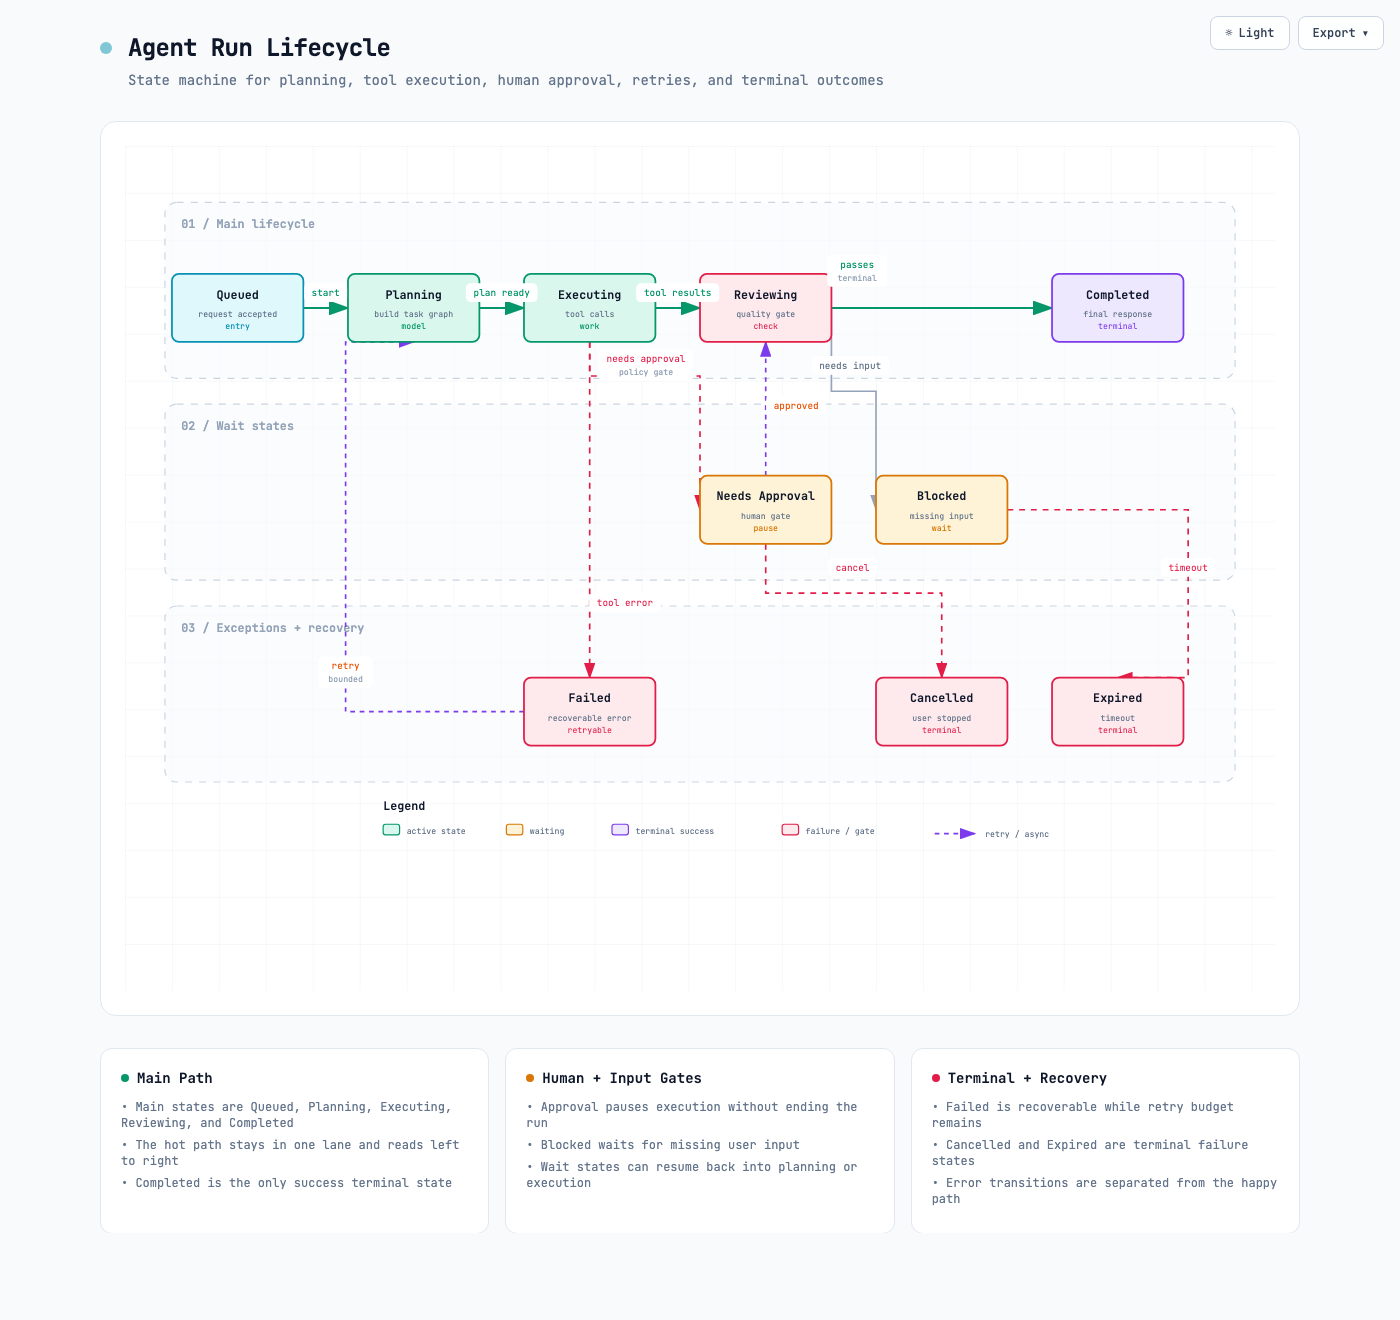
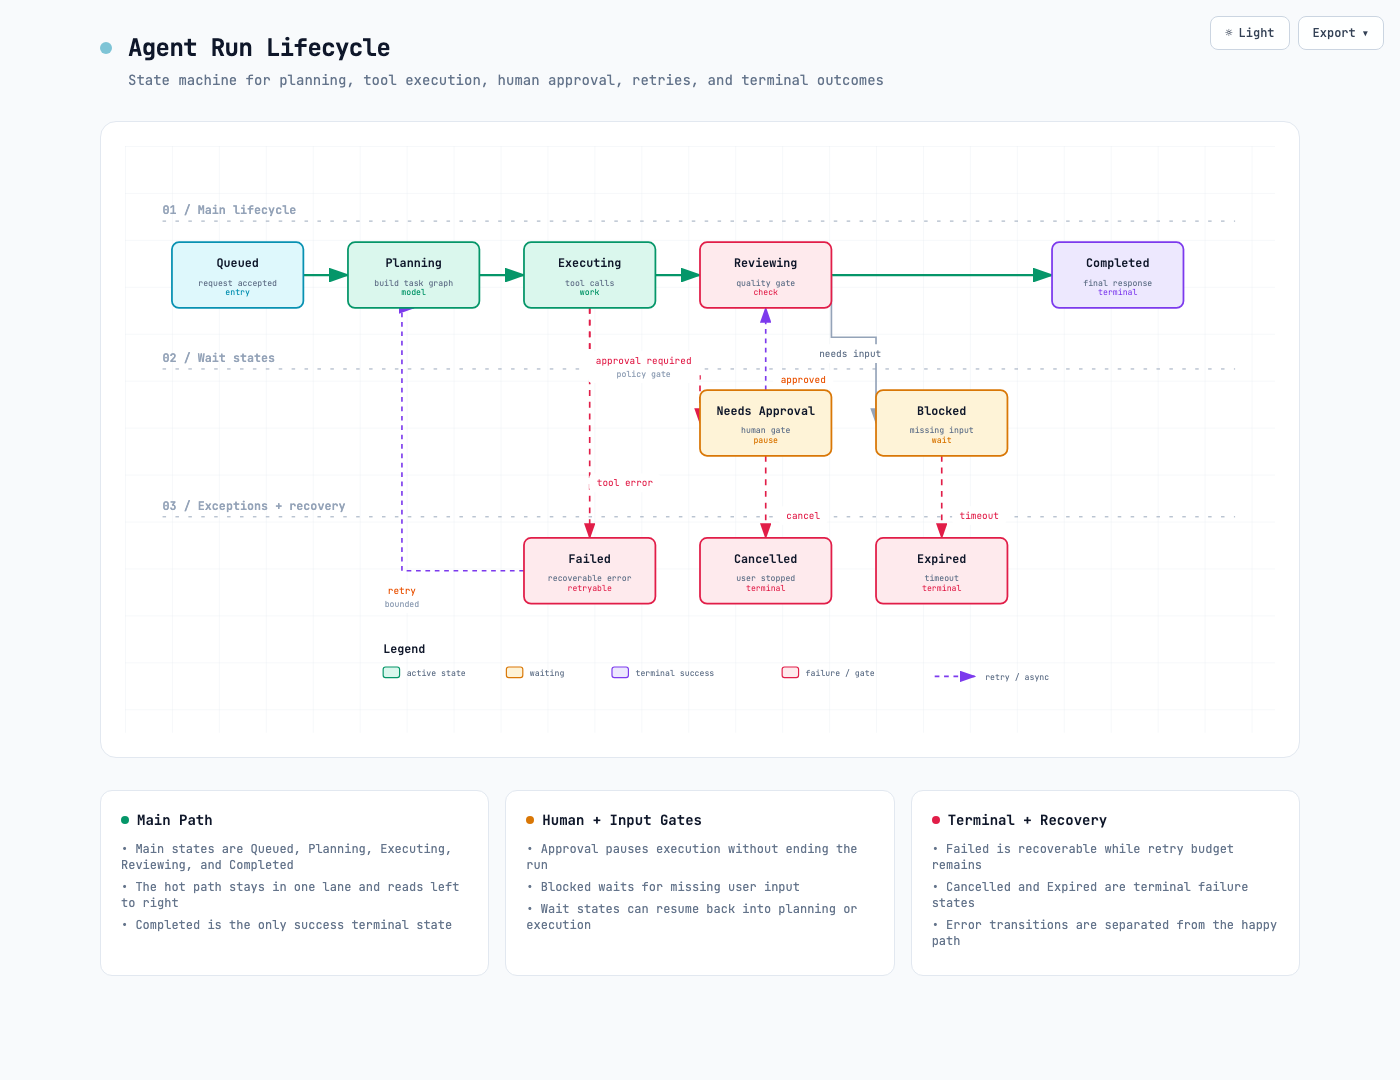
Redesign lifecycle diagram visual model

diff --git a/examples/lifecycle-agent-run.html b/examples/lifecycle-agent-run.html
@@ -448,7 +448,7 @@
 
     <!-- Main Diagram -->
     <div class="diagram-container">
-      <svg viewBox="0 0 980 720">
+      <svg viewBox="0 0 980 500">
         <!-- Definitions -->
         <defs>
           <marker id="arrowhead" markerWidth="10" markerHeight="7" refX="9" refY="3.5" orient="auto">
@@ -472,128 +472,123 @@
         <rect width="100%" height="100%" fill="url(#grid)" />
 
         <!-- Lifecycle lanes -->
-        <rect x="34" y="48" width="912" height="150" rx="10" class="c-lane" stroke-width="1"/>
-        <text x="48" y="70" class="t-dim" font-size="10" font-weight="600">01 / Main lifecycle</text>
+        <path d="M 32 64 L 946 64" class="a-default" stroke-width="0.8" stroke-dasharray="3,8"/>
+        <text x="32" y="58" class="t-dim" font-size="10" font-weight="600">01 / Main lifecycle</text>
 
-        <rect x="34" y="220" width="912" height="150" rx="10" class="c-lane" stroke-width="1"/>
-        <text x="48" y="242" class="t-dim" font-size="10" font-weight="600">02 / Wait states</text>
+        <path d="M 32 190 L 946 190" class="a-default" stroke-width="0.8" stroke-dasharray="3,8"/>
+        <text x="32" y="184" class="t-dim" font-size="10" font-weight="600">02 / Wait states</text>
 
-        <rect x="34" y="392" width="912" height="150" rx="10" class="c-lane" stroke-width="1"/>
-        <text x="48" y="414" class="t-dim" font-size="10" font-weight="600">03 / Exceptions + recovery</text>
+        <path d="M 32 316 L 946 316" class="a-default" stroke-width="0.8" stroke-dasharray="3,8"/>
+        <text x="32" y="310" class="t-dim" font-size="10" font-weight="600">03 / Exceptions + recovery</text>
 
         <!-- Transition paths -->
-        <path d="M 152 138 L 190 138" class="a-emphasis" stroke-width="1.8" marker-end="url(#arrowhead-emphasis)"/>
-        <path d="M 302 138 L 340 138" class="a-emphasis" stroke-width="1.8" marker-end="url(#arrowhead-emphasis)"/>
-        <path d="M 452 138 L 490 138" class="a-emphasis" stroke-width="1.8" marker-end="url(#arrowhead-emphasis)"/>
-        <path d="M 602 138 L 790 138" class="a-emphasis" stroke-width="1.8" marker-end="url(#arrowhead-emphasis)"/>
-        <path d="M 396 167 L 396 196 L 490 196 L 490 310" class="a-security" stroke-width="1.4" marker-end="url(#arrowhead-security)"/>
-        <path d="M 546 281 L 546 167" class="a-dashed" stroke-width="1.4" marker-end="url(#arrowhead-dashed)"/>
-        <path d="M 602 138 L 602 209 L 640 209 L 640 310" class="a-default" stroke-width="1.4" marker-end="url(#arrowhead)"/>
-        <path d="M 396 167 L 396 453" class="a-security" stroke-width="1.4" marker-end="url(#arrowhead-security)"/>
-        <path d="M 340 482 L 188 482 L 188 167 L 246 167" class="a-dashed" stroke-width="1.4" marker-end="url(#arrowhead-dashed)"/>
-        <path d="M 752 310 L 906 310 L 906 453 L 846 453" class="a-security" stroke-width="1.4" marker-end="url(#arrowhead-security)"/>
-        <path d="M 546 339 L 546 381 L 696 381 L 696 453" class="a-security" stroke-width="1.4" marker-end="url(#arrowhead-security)"/>
+        <path d="M 152 110 L 190 110" class="a-emphasis" stroke-width="1.8" marker-end="url(#arrowhead-emphasis)"/>
+        <path d="M 302 110 L 340 110" class="a-emphasis" stroke-width="1.8" marker-end="url(#arrowhead-emphasis)"/>
+        <path d="M 452 110 L 490 110" class="a-emphasis" stroke-width="1.8" marker-end="url(#arrowhead-emphasis)"/>
+        <path d="M 602 110 L 790 110" class="a-emphasis" stroke-width="1.8" marker-end="url(#arrowhead-emphasis)"/>
+        <path d="M 396 138 L 396 196 L 490 196 L 490 236" class="a-security" stroke-width="1.4" marker-end="url(#arrowhead-security)"/>
+        <path d="M 546 208 L 546 138" class="a-dashed" stroke-width="1.4" marker-end="url(#arrowhead-dashed)"/>
+        <path d="M 602 110 L 602 163 L 640 163 L 640 236" class="a-default" stroke-width="1.4" marker-end="url(#arrowhead)"/>
+        <path d="M 396 138 L 396 334" class="a-security" stroke-width="1.4" marker-end="url(#arrowhead-security)"/>
+        <path d="M 340 362 L 236 362 L 236 138 L 246 138" class="a-dashed" stroke-width="1.4" marker-end="url(#arrowhead-dashed)"/>
+        <path d="M 696 264 L 696 334" class="a-security" stroke-width="1.4" marker-end="url(#arrowhead-security)"/>
+        <path d="M 546 264 L 546 334" class="a-security" stroke-width="1.4" marker-end="url(#arrowhead-security)"/>
 
         <!-- States -->
-        <rect x="40" y="109" width="112" height="58" rx="6" class="c-mask"/>
-        <rect x="40" y="109" width="112" height="58" rx="6" class="c-frontend" stroke-width="1.5"/>
-        <text x="96" y="130" class="t-primary" font-size="10" font-weight="600" text-anchor="middle">Queued</text>
-        <text x="96" y="146" class="t-muted" font-size="7" text-anchor="middle">request accepted</text>
-        <text x="96" y="156" class="t-frontend" font-size="7" text-anchor="middle">entry</text>
+        <rect x="40" y="82" width="112" height="56" rx="6" class="c-mask"/>
+        <rect x="40" y="82" width="112" height="56" rx="6" class="c-frontend" stroke-width="1.5"/>
+        <text x="96" y="103" class="t-primary" font-size="10" font-weight="600" text-anchor="middle">Queued</text>
+        <text x="96" y="119" class="t-muted" font-size="7" text-anchor="middle">request accepted</text>
+        <text x="96" y="127" class="t-frontend" font-size="7" text-anchor="middle">entry</text>
 
-        <rect x="190" y="109" width="112" height="58" rx="6" class="c-mask"/>
-        <rect x="190" y="109" width="112" height="58" rx="6" class="c-backend" stroke-width="1.5"/>
-        <text x="246" y="130" class="t-primary" font-size="10" font-weight="600" text-anchor="middle">Planning</text>
-        <text x="246" y="146" class="t-muted" font-size="7" text-anchor="middle">build task graph</text>
-        <text x="246" y="156" class="t-backend" font-size="7" text-anchor="middle">model</text>
+        <rect x="190" y="82" width="112" height="56" rx="6" class="c-mask"/>
+        <rect x="190" y="82" width="112" height="56" rx="6" class="c-backend" stroke-width="1.5"/>
+        <text x="246" y="103" class="t-primary" font-size="10" font-weight="600" text-anchor="middle">Planning</text>
+        <text x="246" y="119" class="t-muted" font-size="7" text-anchor="middle">build task graph</text>
+        <text x="246" y="127" class="t-backend" font-size="7" text-anchor="middle">model</text>
 
-        <rect x="340" y="109" width="112" height="58" rx="6" class="c-mask"/>
-        <rect x="340" y="109" width="112" height="58" rx="6" class="c-backend" stroke-width="1.5"/>
-        <text x="396" y="130" class="t-primary" font-size="10" font-weight="600" text-anchor="middle">Executing</text>
-        <text x="396" y="146" class="t-muted" font-size="7" text-anchor="middle">tool calls</text>
-        <text x="396" y="156" class="t-backend" font-size="7" text-anchor="middle">work</text>
+        <rect x="340" y="82" width="112" height="56" rx="6" class="c-mask"/>
+        <rect x="340" y="82" width="112" height="56" rx="6" class="c-backend" stroke-width="1.5"/>
+        <text x="396" y="103" class="t-primary" font-size="10" font-weight="600" text-anchor="middle">Executing</text>
+        <text x="396" y="119" class="t-muted" font-size="7" text-anchor="middle">tool calls</text>
+        <text x="396" y="127" class="t-backend" font-size="7" text-anchor="middle">work</text>
 
-        <rect x="490" y="109" width="112" height="58" rx="6" class="c-mask"/>
-        <rect x="490" y="109" width="112" height="58" rx="6" class="c-security" stroke-width="1.5"/>
-        <text x="546" y="130" class="t-primary" font-size="10" font-weight="600" text-anchor="middle">Reviewing</text>
-        <text x="546" y="146" class="t-muted" font-size="7" text-anchor="middle">quality gate</text>
-        <text x="546" y="156" class="t-security" font-size="7" text-anchor="middle">check</text>
+        <rect x="490" y="82" width="112" height="56" rx="6" class="c-mask"/>
+        <rect x="490" y="82" width="112" height="56" rx="6" class="c-security" stroke-width="1.5"/>
+        <text x="546" y="103" class="t-primary" font-size="10" font-weight="600" text-anchor="middle">Reviewing</text>
+        <text x="546" y="119" class="t-muted" font-size="7" text-anchor="middle">quality gate</text>
+        <text x="546" y="127" class="t-security" font-size="7" text-anchor="middle">check</text>
 
-        <rect x="790" y="109" width="112" height="58" rx="6" class="c-mask"/>
-        <rect x="790" y="109" width="112" height="58" rx="6" class="c-database" stroke-width="1.5"/>
-        <text x="846" y="130" class="t-primary" font-size="10" font-weight="600" text-anchor="middle">Completed</text>
-        <text x="846" y="146" class="t-muted" font-size="7" text-anchor="middle">final response</text>
-        <text x="846" y="156" class="t-database" font-size="7" text-anchor="middle">terminal</text>
+        <rect x="790" y="82" width="112" height="56" rx="6" class="c-mask"/>
+        <rect x="790" y="82" width="112" height="56" rx="6" class="c-database" stroke-width="1.5"/>
+        <text x="846" y="103" class="t-primary" font-size="10" font-weight="600" text-anchor="middle">Completed</text>
+        <text x="846" y="119" class="t-muted" font-size="7" text-anchor="middle">final response</text>
+        <text x="846" y="127" class="t-database" font-size="7" text-anchor="middle">terminal</text>
 
-        <rect x="490" y="281" width="112" height="58" rx="6" class="c-mask"/>
-        <rect x="490" y="281" width="112" height="58" rx="6" class="c-cloud" stroke-width="1.5"/>
-        <text x="546" y="302" class="t-primary" font-size="10" font-weight="600" text-anchor="middle">Needs Approval</text>
-        <text x="546" y="318" class="t-muted" font-size="7" text-anchor="middle">human gate</text>
-        <text x="546" y="328" class="t-cloud" font-size="7" text-anchor="middle">pause</text>
+        <rect x="490" y="208" width="112" height="56" rx="6" class="c-mask"/>
+        <rect x="490" y="208" width="112" height="56" rx="6" class="c-cloud" stroke-width="1.5"/>
+        <text x="546" y="229" class="t-primary" font-size="10" font-weight="600" text-anchor="middle">Needs Approval</text>
+        <text x="546" y="245" class="t-muted" font-size="7" text-anchor="middle">human gate</text>
+        <text x="546" y="253" class="t-cloud" font-size="7" text-anchor="middle">pause</text>
 
-        <rect x="640" y="281" width="112" height="58" rx="6" class="c-mask"/>
-        <rect x="640" y="281" width="112" height="58" rx="6" class="c-cloud" stroke-width="1.5"/>
-        <text x="696" y="302" class="t-primary" font-size="10" font-weight="600" text-anchor="middle">Blocked</text>
-        <text x="696" y="318" class="t-muted" font-size="7" text-anchor="middle">missing input</text>
-        <text x="696" y="328" class="t-cloud" font-size="7" text-anchor="middle">wait</text>
+        <rect x="640" y="208" width="112" height="56" rx="6" class="c-mask"/>
+        <rect x="640" y="208" width="112" height="56" rx="6" class="c-cloud" stroke-width="1.5"/>
+        <text x="696" y="229" class="t-primary" font-size="10" font-weight="600" text-anchor="middle">Blocked</text>
+        <text x="696" y="245" class="t-muted" font-size="7" text-anchor="middle">missing input</text>
+        <text x="696" y="253" class="t-cloud" font-size="7" text-anchor="middle">wait</text>
 
-        <rect x="340" y="453" width="112" height="58" rx="6" class="c-mask"/>
-        <rect x="340" y="453" width="112" height="58" rx="6" class="c-security" stroke-width="1.5"/>
-        <text x="396" y="474" class="t-primary" font-size="10" font-weight="600" text-anchor="middle">Failed</text>
-        <text x="396" y="490" class="t-muted" font-size="7" text-anchor="middle">recoverable error</text>
-        <text x="396" y="500" class="t-security" font-size="7" text-anchor="middle">retryable</text>
+        <rect x="340" y="334" width="112" height="56" rx="6" class="c-mask"/>
+        <rect x="340" y="334" width="112" height="56" rx="6" class="c-security" stroke-width="1.5"/>
+        <text x="396" y="355" class="t-primary" font-size="10" font-weight="600" text-anchor="middle">Failed</text>
+        <text x="396" y="371" class="t-muted" font-size="7" text-anchor="middle">recoverable error</text>
+        <text x="396" y="379" class="t-security" font-size="7" text-anchor="middle">retryable</text>
 
-        <rect x="640" y="453" width="112" height="58" rx="6" class="c-mask"/>
-        <rect x="640" y="453" width="112" height="58" rx="6" class="c-security" stroke-width="1.5"/>
-        <text x="696" y="474" class="t-primary" font-size="10" font-weight="600" text-anchor="middle">Cancelled</text>
-        <text x="696" y="490" class="t-muted" font-size="7" text-anchor="middle">user stopped</text>
-        <text x="696" y="500" class="t-security" font-size="7" text-anchor="middle">terminal</text>
+        <rect x="490" y="334" width="112" height="56" rx="6" class="c-mask"/>
+        <rect x="490" y="334" width="112" height="56" rx="6" class="c-security" stroke-width="1.5"/>
+        <text x="546" y="355" class="t-primary" font-size="10" font-weight="600" text-anchor="middle">Cancelled</text>
+        <text x="546" y="371" class="t-muted" font-size="7" text-anchor="middle">user stopped</text>
+        <text x="546" y="379" class="t-security" font-size="7" text-anchor="middle">terminal</text>
 
-        <rect x="790" y="453" width="112" height="58" rx="6" class="c-mask"/>
-        <rect x="790" y="453" width="112" height="58" rx="6" class="c-security" stroke-width="1.5"/>
-        <text x="846" y="474" class="t-primary" font-size="10" font-weight="600" text-anchor="middle">Expired</text>
-        <text x="846" y="490" class="t-muted" font-size="7" text-anchor="middle">timeout</text>
-        <text x="846" y="500" class="t-security" font-size="7" text-anchor="middle">terminal</text>
+        <rect x="640" y="334" width="112" height="56" rx="6" class="c-mask"/>
+        <rect x="640" y="334" width="112" height="56" rx="6" class="c-security" stroke-width="1.5"/>
+        <text x="696" y="355" class="t-primary" font-size="10" font-weight="600" text-anchor="middle">Expired</text>
+        <text x="696" y="371" class="t-muted" font-size="7" text-anchor="middle">timeout</text>
+        <text x="696" y="379" class="t-security" font-size="7" text-anchor="middle">terminal</text>
 
         <!-- Transition labels -->
-        <rect x="152.75" y="117" width="36.5" height="16" rx="4" class="c-mask"/>
-        <text x="171" y="128" class="t-backend" font-size="8" text-anchor="middle">start</text>
-        <rect x="290.5" y="117" width="61" height="16" rx="4" class="c-mask"/>
-        <text x="321" y="128" class="t-backend" font-size="8" text-anchor="middle">plan ready</text>
-        <rect x="435.6" y="117" width="70.80000000000001" height="16" rx="4" class="c-mask"/>
-        <text x="471" y="128" class="t-backend" font-size="8" text-anchor="middle">tool results</text>
-        <rect x="598.4" y="93" width="51.2" height="27" rx="4" class="c-mask"/>
-        <text x="624" y="104" class="t-backend" font-size="8" text-anchor="middle">passes</text>
-        <text x="624" y="115" class="t-dim" font-size="7" text-anchor="middle">terminal</text>
-        <rect x="403.7" y="173" width="80.60000000000001" height="27" rx="4" class="c-mask"/>
-        <text x="444" y="184" class="t-security" font-size="8" text-anchor="middle">needs approval</text>
-        <text x="444" y="195" class="t-dim" font-size="7" text-anchor="middle">policy gate</text>
-        <rect x="546.4" y="213" width="51.2" height="16" rx="4" class="c-mask"/>
-        <text x="572" y="224" class="t-messagebus" font-size="8" text-anchor="middle">approved</text>
-        <rect x="585.05" y="179" width="65.9" height="16" rx="4" class="c-mask"/>
-        <text x="618" y="190" class="t-muted" font-size="8" text-anchor="middle">needs input</text>
-        <rect x="395.5" y="381" width="61" height="16" rx="4" class="c-mask"/>
-        <text x="426" y="392" class="t-security" font-size="8" text-anchor="middle">tool error</text>
-        <rect x="164.85" y="435" width="46.300000000000004" height="27" rx="4" class="c-mask"/>
-        <text x="188" y="446" class="t-messagebus" font-size="8" text-anchor="middle">retry</text>
-        <text x="188" y="457" class="t-dim" font-size="7" text-anchor="middle">bounded</text>
-        <rect x="882.85" y="351" width="46.300000000000004" height="16" rx="4" class="c-mask"/>
-        <text x="906" y="362" class="t-security" font-size="8" text-anchor="middle">timeout</text>
-        <rect x="599.3" y="351" width="41.400000000000006" height="16" rx="4" class="c-mask"/>
-        <text x="620" y="362" class="t-security" font-size="8" text-anchor="middle">cancel</text>
+
+
+
+
+        <rect x="394.35" y="175" width="95.30000000000001" height="27" rx="4" class="c-mask"/>
+        <text x="442" y="186" class="t-security" font-size="8" text-anchor="middle">approval required</text>
+        <text x="442" y="197" class="t-dim" font-size="7" text-anchor="middle">policy gate</text>
+        <rect x="552.4" y="191" width="51.2" height="16" rx="4" class="c-mask"/>
+        <text x="578" y="202" class="t-messagebus" font-size="8" text-anchor="middle">approved</text>
+        <rect x="585.05" y="169" width="65.9" height="16" rx="4" class="c-mask"/>
+        <text x="618" y="180" class="t-muted" font-size="8" text-anchor="middle">needs input</text>
+        <rect x="395.5" y="279" width="61" height="16" rx="4" class="c-mask"/>
+        <text x="426" y="290" class="t-security" font-size="8" text-anchor="middle">tool error</text>
+        <rect x="212.85" y="371" width="46.300000000000004" height="27" rx="4" class="c-mask"/>
+        <text x="236" y="382" class="t-messagebus" font-size="8" text-anchor="middle">retry</text>
+        <text x="236" y="393" class="t-dim" font-size="7" text-anchor="middle">bounded</text>
+        <rect x="704.85" y="307" width="46.300000000000004" height="16" rx="4" class="c-mask"/>
+        <text x="728" y="318" class="t-security" font-size="8" text-anchor="middle">timeout</text>
+        <rect x="557.3" y="307" width="41.400000000000006" height="16" rx="4" class="c-mask"/>
+        <text x="578" y="318" class="t-security" font-size="8" text-anchor="middle">cancel</text>
 
         <!-- Legend -->
-        <text x="220" y="566" class="t-primary" font-size="10" font-weight="600">Legend</text>
-        <rect x="220" y="578" width="14" height="9" rx="2" class="c-backend" stroke-width="1"/>
-        <text x="240" y="586" class="t-muted" font-size="7">active state</text>
-        <rect x="325" y="578" width="14" height="9" rx="2" class="c-cloud" stroke-width="1"/>
-        <text x="345" y="586" class="t-muted" font-size="7">waiting</text>
-        <rect x="415" y="578" width="14" height="9" rx="2" class="c-database" stroke-width="1"/>
-        <text x="435" y="586" class="t-muted" font-size="7">terminal success</text>
-        <rect x="560" y="578" width="14" height="9" rx="2" class="c-security" stroke-width="1"/>
-        <text x="580" y="586" class="t-muted" font-size="7">failure / gate</text>
-        <path d="M 690 586 L 724 586" class="a-dashed" stroke-width="1.4" marker-end="url(#arrowhead-dashed)"/>
-        <text x="733" y="589" class="t-muted" font-size="7">retry / async</text>
+        <text x="220" y="432" class="t-primary" font-size="10" font-weight="600">Legend</text>
+        <rect x="220" y="444" width="14" height="9" rx="2" class="c-backend" stroke-width="1"/>
+        <text x="240" y="452" class="t-muted" font-size="7">active state</text>
+        <rect x="325" y="444" width="14" height="9" rx="2" class="c-cloud" stroke-width="1"/>
+        <text x="345" y="452" class="t-muted" font-size="7">waiting</text>
+        <rect x="415" y="444" width="14" height="9" rx="2" class="c-database" stroke-width="1"/>
+        <text x="435" y="452" class="t-muted" font-size="7">terminal success</text>
+        <rect x="560" y="444" width="14" height="9" rx="2" class="c-security" stroke-width="1"/>
+        <text x="580" y="452" class="t-muted" font-size="7">failure / gate</text>
+        <path d="M 690 452 L 724 452" class="a-dashed" stroke-width="1.4" marker-end="url(#arrowhead-dashed)"/>
+        <text x="733" y="455" class="t-muted" font-size="7">retry / async</text>
       </svg>
     </div>
 
